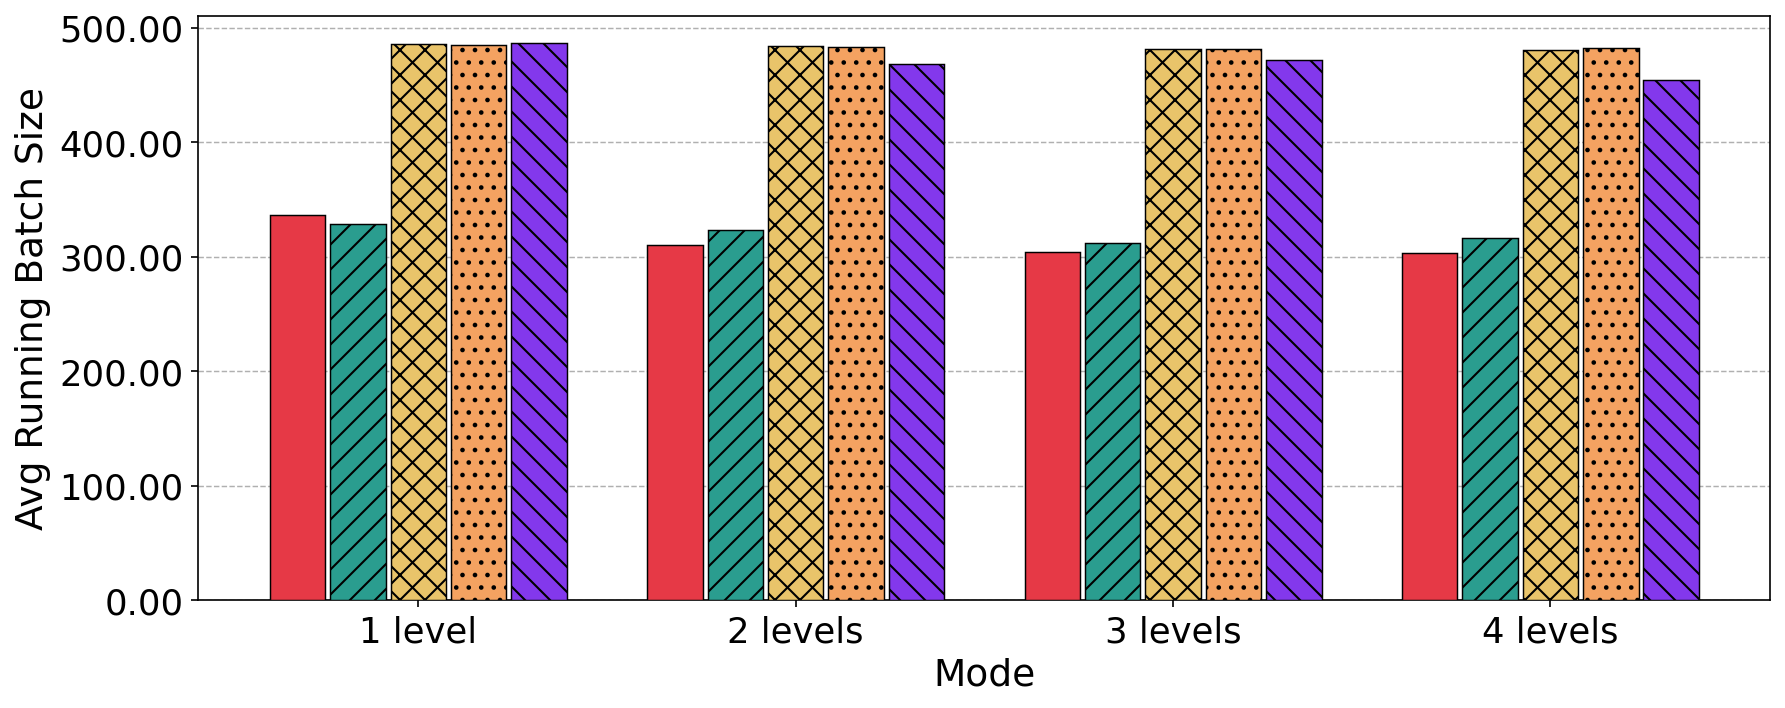
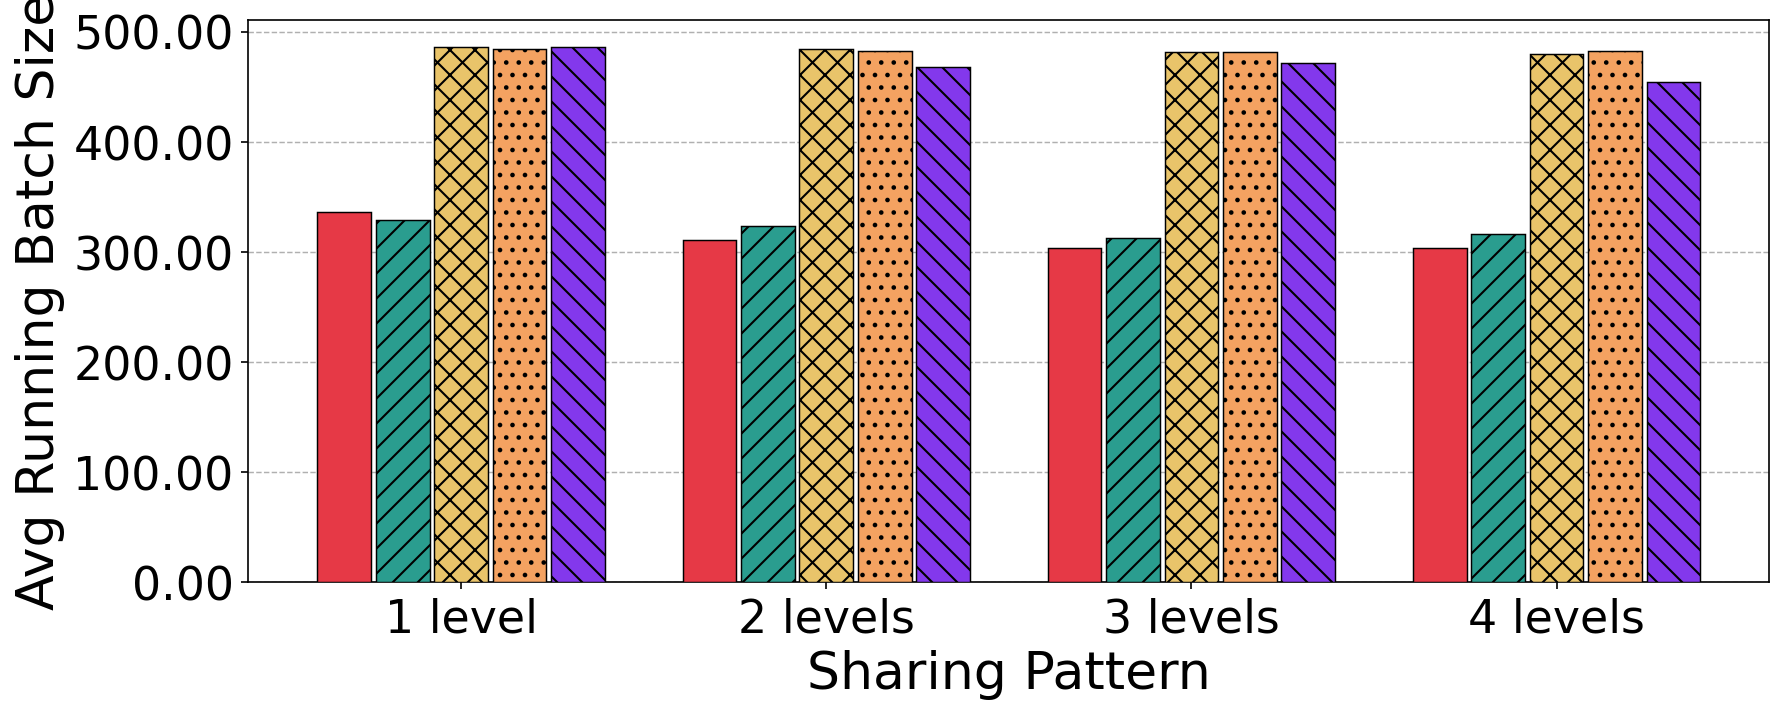
sys

diff --git a/code/vllm/radix_tree_logs/plot.py b/code/vllm/radix_tree_logs/plot.py
@@ -206,13 +206,13 @@ for sv in sorted(per_sys.keys()):
                 return "4 levels"
             return None
         mode_labels = [mode_labels_func(m) for m in all_modes]
-        ax.set_xticklabels(mode_labels, fontsize=16)
-        ax.set_xlabel("Mode", fontsize=18)
-        ax.set_ylabel(ylabel, fontsize=18)
-        ax.tick_params(axis="both", labelsize=17)
+        ax.set_xticklabels(mode_labels, fontsize=22)
+        ax.set_xlabel("Sharing Pattern", fontsize=25)
+        ax.set_ylabel(ylabel, fontsize=25)
+        ax.tick_params(axis="both", labelsize=22)
         ax.yaxis.set_major_formatter(ticker.FormatStrFormatter("%.2f"))
         if metric_key == "throughput":
-            ax.legend(fontsize=15, framealpha=0.35, ncol=3,
+            ax.legend(fontsize=20, framealpha=0.35, ncol=3,
                       loc="upper left", bbox_to_anchor=(0, 1.18))
         ax.grid(True, axis="y", linewidth=0.7, linestyle="--", zorder=0)
         ax.set_axisbelow(True)
